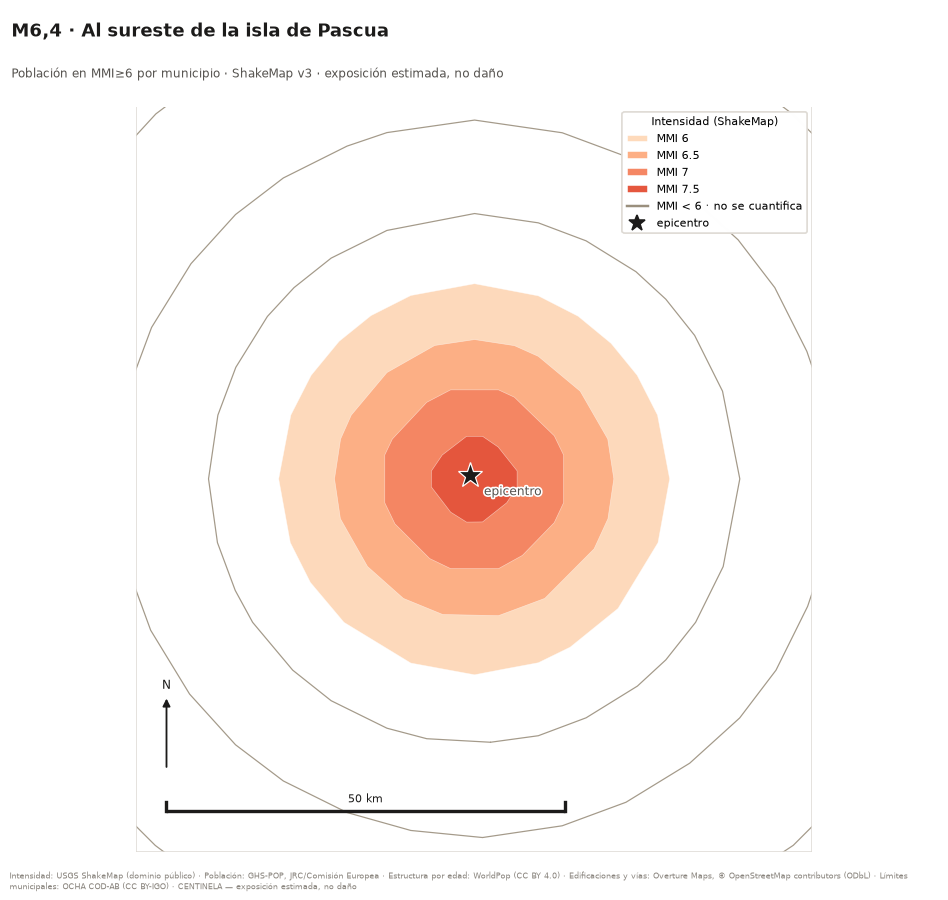
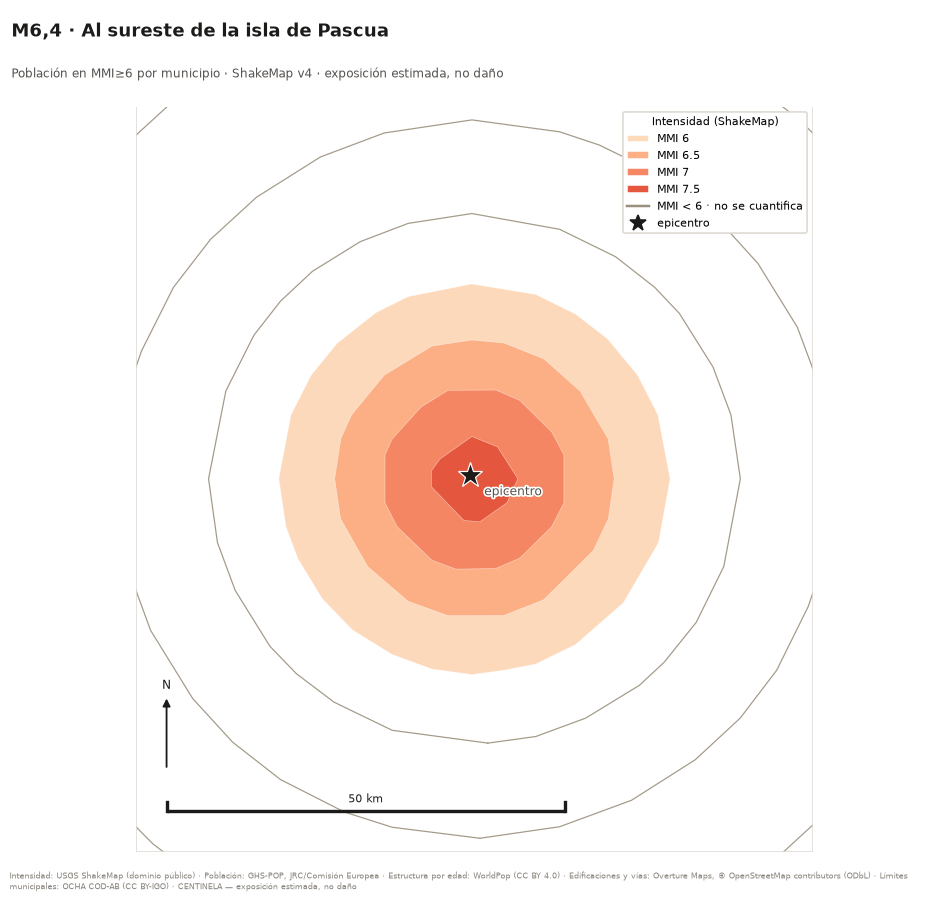
P3: reporte de us7000ttxz

diff --git a/reports/us7000ttxz/report.md b/reports/us7000ttxz/report.md
@@ -44,10 +44,13 @@ Las dos cifras **no se tabulan igual** y no se pueden leer una contra otra: PAGE
 
 Discrepancia entre GHS-POP y WorldPop: **no se pudo medir**. Ninguna celda dentro de las bandas publicadas tiene población de WorldPop con la que contrastar.
 
-- El epicentro está a 1.479 km de la población más cercana del país con la que se comparó. La sacudida no alcanzó territorio habitado.
+- El epicentro está a 1.486 km de la población más cercana del país con la que se comparó. La sacudida no alcanzó territorio habitado.
 
 ## Cambios frente a la versión anterior
 
+- ShakeMap: v3 (us) → v4 (us)
+- Epicentro: reubicado 7 km
+- Ninguna cifra publicada cambia frente a la versión anterior.
 - ShakeMap: v2 (us) → v3 (us)
 - Ninguna cifra publicada cambia frente a la versión anterior.
 - ShakeMap: v1 (us) → v2 (us)
@@ -62,10 +65,10 @@ Discrepancia entre GHS-POP y WorldPop: **no se pudo medir**. Ninguna celda dentr
 
 ## Procedencia
 
-- ShakeMap consumido: **v3** de `us`
+- ShakeMap consumido: **v4** de `us`
 - Ground Failure consumido: **ninguno** (no publicado aún)
 - Manifiesto de exposición: [`chl-v0.5`](https://github.com/sforero77/CENTINELA/blob/main/data/manifests/CHL.yaml)
-- Pipeline: `0.1.0` · Generado: 2026-10-30T11:34:38Z
+- Pipeline: `0.1.0` · Generado: 2026-11-12T12:56:10Z
 
 ## Advertencias
 
